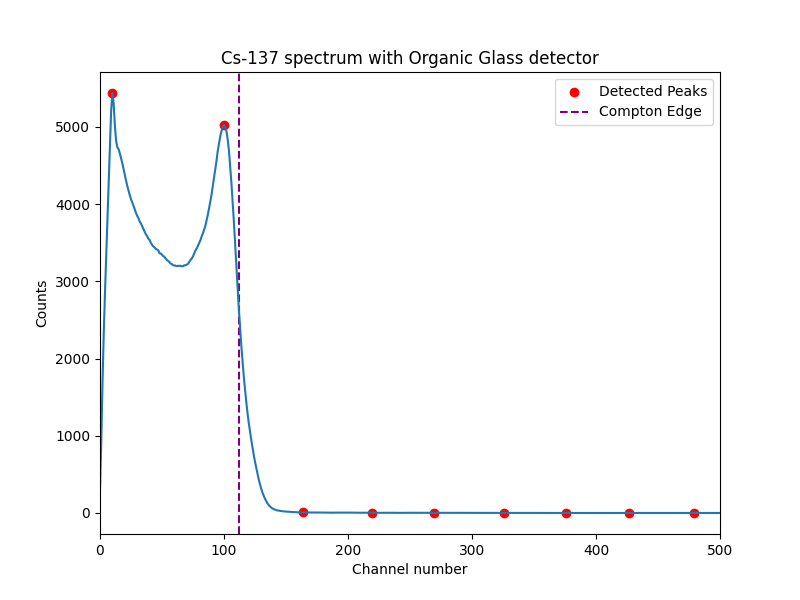
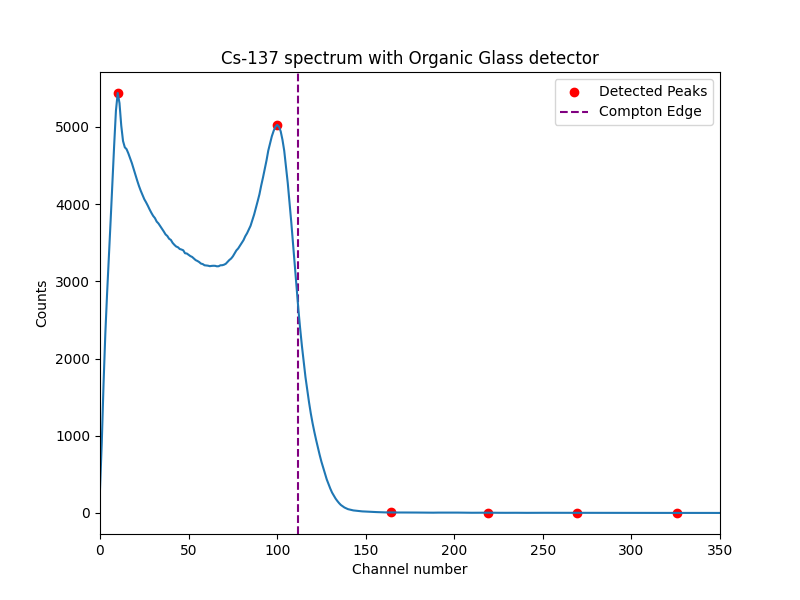
fixed calibration factor for Na22 on the CLYC detector, still unsure of organic glass calibration. Added comments

diff --git a/calibrationGraphing.py b/calibrationGraphing.py
@@ -7,13 +7,17 @@ from fileReader import compassReader
 from Functions import *
 from scipy.signal import find_peaks
 
+
+#window size for boxcar averaging
 window_size = 10
+
+#folder to save calibration plots
 calibration_folder = "11_20_2025_calibration"
 calibration_plot_save = os.path.join(calibration_folder,"detector_calibration_plots")
 if not os.path.exists(calibration_plot_save):
     os.makedirs(calibration_plot_save)
 
-
+#loading calibration data files
 Cs137_CLYC_CH0 = os.path.join(calibration_folder,r"data\CH0@DT5730S_2263_Espectrum_Cs137_CLYC_11_20_2025_test_20251120_175941.txt")
 Cs137_CLYC_CH1 = os.path.join(calibration_folder,r"data\CH1@DT5730S_2263_Espectrum_Cs137_CLYC_11_20_2025_test_20251120_175941.txt")
 
@@ -26,6 +30,8 @@ Cs137_OG_CH1 = os.path.join(calibration_folder,r"data\CH1@DT5730S_2263_Espectrum
 Na22_OG_CH0 = os.path.join(calibration_folder, r"data\CH0@DT5730S_2263_Espectrum_Na22_OG_11_20_2025_test_20251120_174621.txt")
 Na22_OG_CH1 = os.path.join(calibration_folder,r"data\CH1@DT5730S_2263_Espectrum_Na22_OG_11_20_2025_test_20251120_174621.txt")
 
+#lists of files, isotopes, and detectors
+
 CH0_files = [Cs137_CLYC_CH0, Na22_CLYC_CH0, Cs137_OG_CH0, Na22_OG_CH0]
 CH1_files = [Cs137_CLYC_CH1, Na22_CLYC_CH1, Cs137_OG_CH1, Na22_OG_CH1]
 
@@ -36,9 +42,15 @@ calibration_factors = []
 
 N = len(CH0_files)
 
+#For loop that plots and calculates calibration factors
+#notably, this is not automated, and is slighly hardcoded for peak identification
+#because we only need to calibrate this one time, I did not make this more general
+
 for i in range(N):
     if i != 0:
         pass
+
+
     CH0_file = CH0_files[i]
     CH1_file = CH1_files[i]
     isotope = isotopes[i]
@@ -64,6 +76,7 @@ for i in range(N):
    
     channels = np.arange(len(CH0_data))
 
+    #plotting and calculation happens here
 
     fig, ax = plt.subplots(1, 1, figsize=(8, 6))
     if detector== "CLYC":
@@ -71,10 +84,11 @@ for i in range(N):
         peak_channels = channels[peak_indices]
         plt.scatter(peak_channels, data[peak_indices], color='red', label='Detected Peaks')
         if isotope == "Na-22":
-            plt.axvline(x = peak_channels[14], color='green', linestyle='--', label='1275 keV Peak')
-            plt.axvline(x = peak_channels[7], color='orange', linestyle='--', label='511 keV Peak')
+            # plt.axvline(x = peak_channels[14], color='green', linestyle='--', label='1275 keV Peak')
+            plt.axvline(x = peak_channels[14], color='orange', linestyle='--', label='511 keV Peak')
+            #note that the index is 14. This is hardcoded based on observing the graph
 
-            calibration_factor = 1275 / peak_channels[14]
+            calibration_factor = anhillation_peak / peak_channels[14]
             print(f"Calibration factor for {isotope} with {detector}: {calibration_factor:.4f} keV/channel")
         if isotope == "Cs-137":
             plt.axvline(x = peak_channels[19], color='green', linestyle='--', label='662 keV Peak')
@@ -113,7 +127,7 @@ for i in range(N):
     ax.legend()
     ax.set_title(f"{isotope} spectrum with {detector} detector")
     if detector == "Organic Glass":
-        ax.set_xlim(0, 500)
+        ax.set_xlim(0, 350)
     plt.savefig(os.path.join(calibration_plot_save, f"{isotope}_{detector}_spectrum.png"))
     # plt.show()
 
@@ -122,6 +136,6 @@ calibration_dict = {
     "Detector": detectors,
     "Calibration Factor (keV/channel)": calibration_factors
 }
-
+#makes and saves dataframe of calibration factors
 calibration_df = pd.DataFrame(calibration_dict)
 calibration_df.to_csv(os.path.join(calibration_plot_save, "calibration_factors.csv"), index=False)
